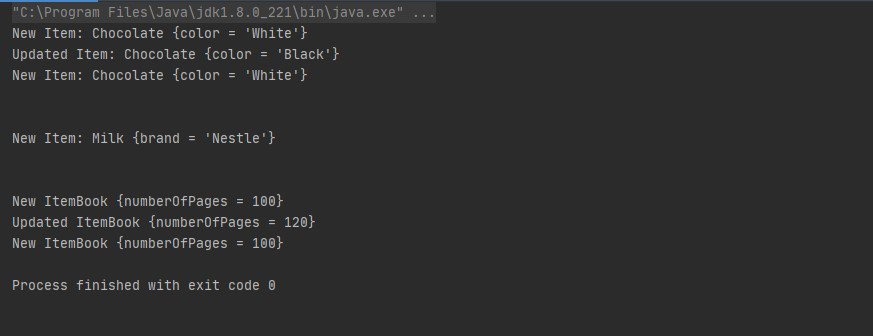
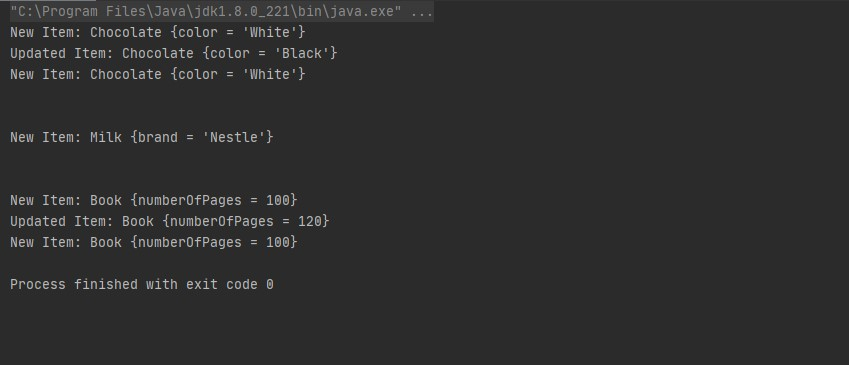
change item text

diff --git a/design-patterns/prototype/src/main/java/org/virtusa/grocerystore/Application.java b/design-patterns/prototype/src/main/java/org/virtusa/grocerystore/Application.java
@@ -18,10 +18,10 @@ public class Application {
 
 
         Book book = (Book) itemRegistry.getItem(ItemType.BOOK);
-        System.out.println("New Item" + book);
+        System.out.println("New Item: " + book);
         book.setNumberOfPages(120);
-        System.out.println("Updated Item" + book);
+        System.out.println("Updated Item: " + book);
         Book book2 = (Book) itemRegistry.getItem(ItemType.BOOK);
-        System.out.println("New Item" + book2);
+        System.out.println("New Item: " + book2);
     }
 }
